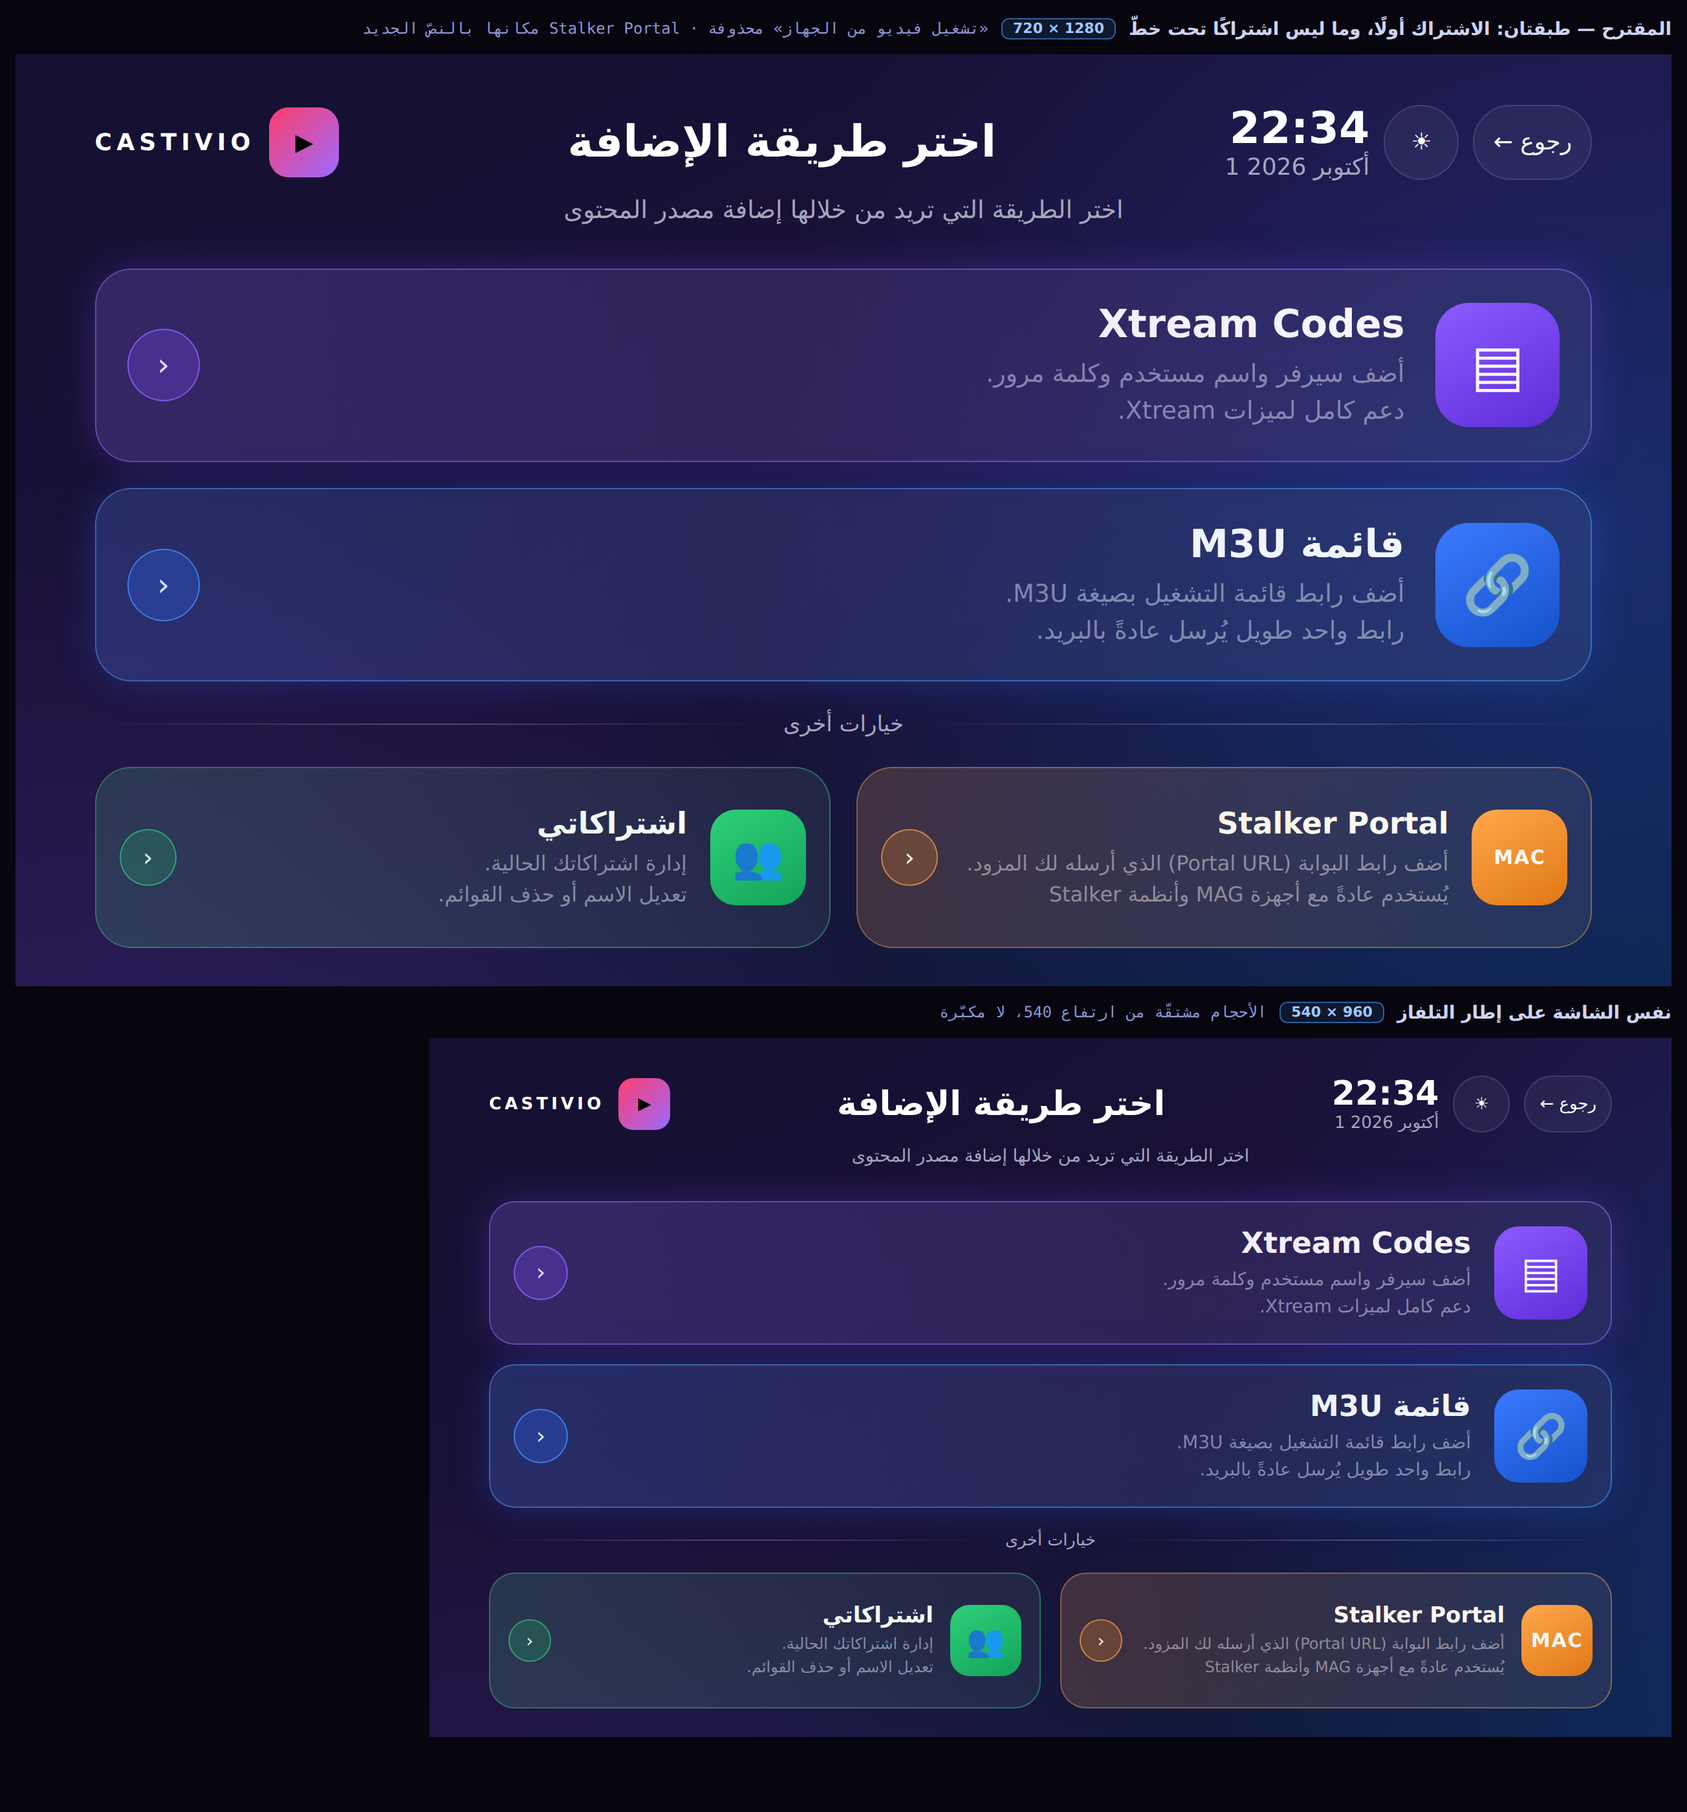
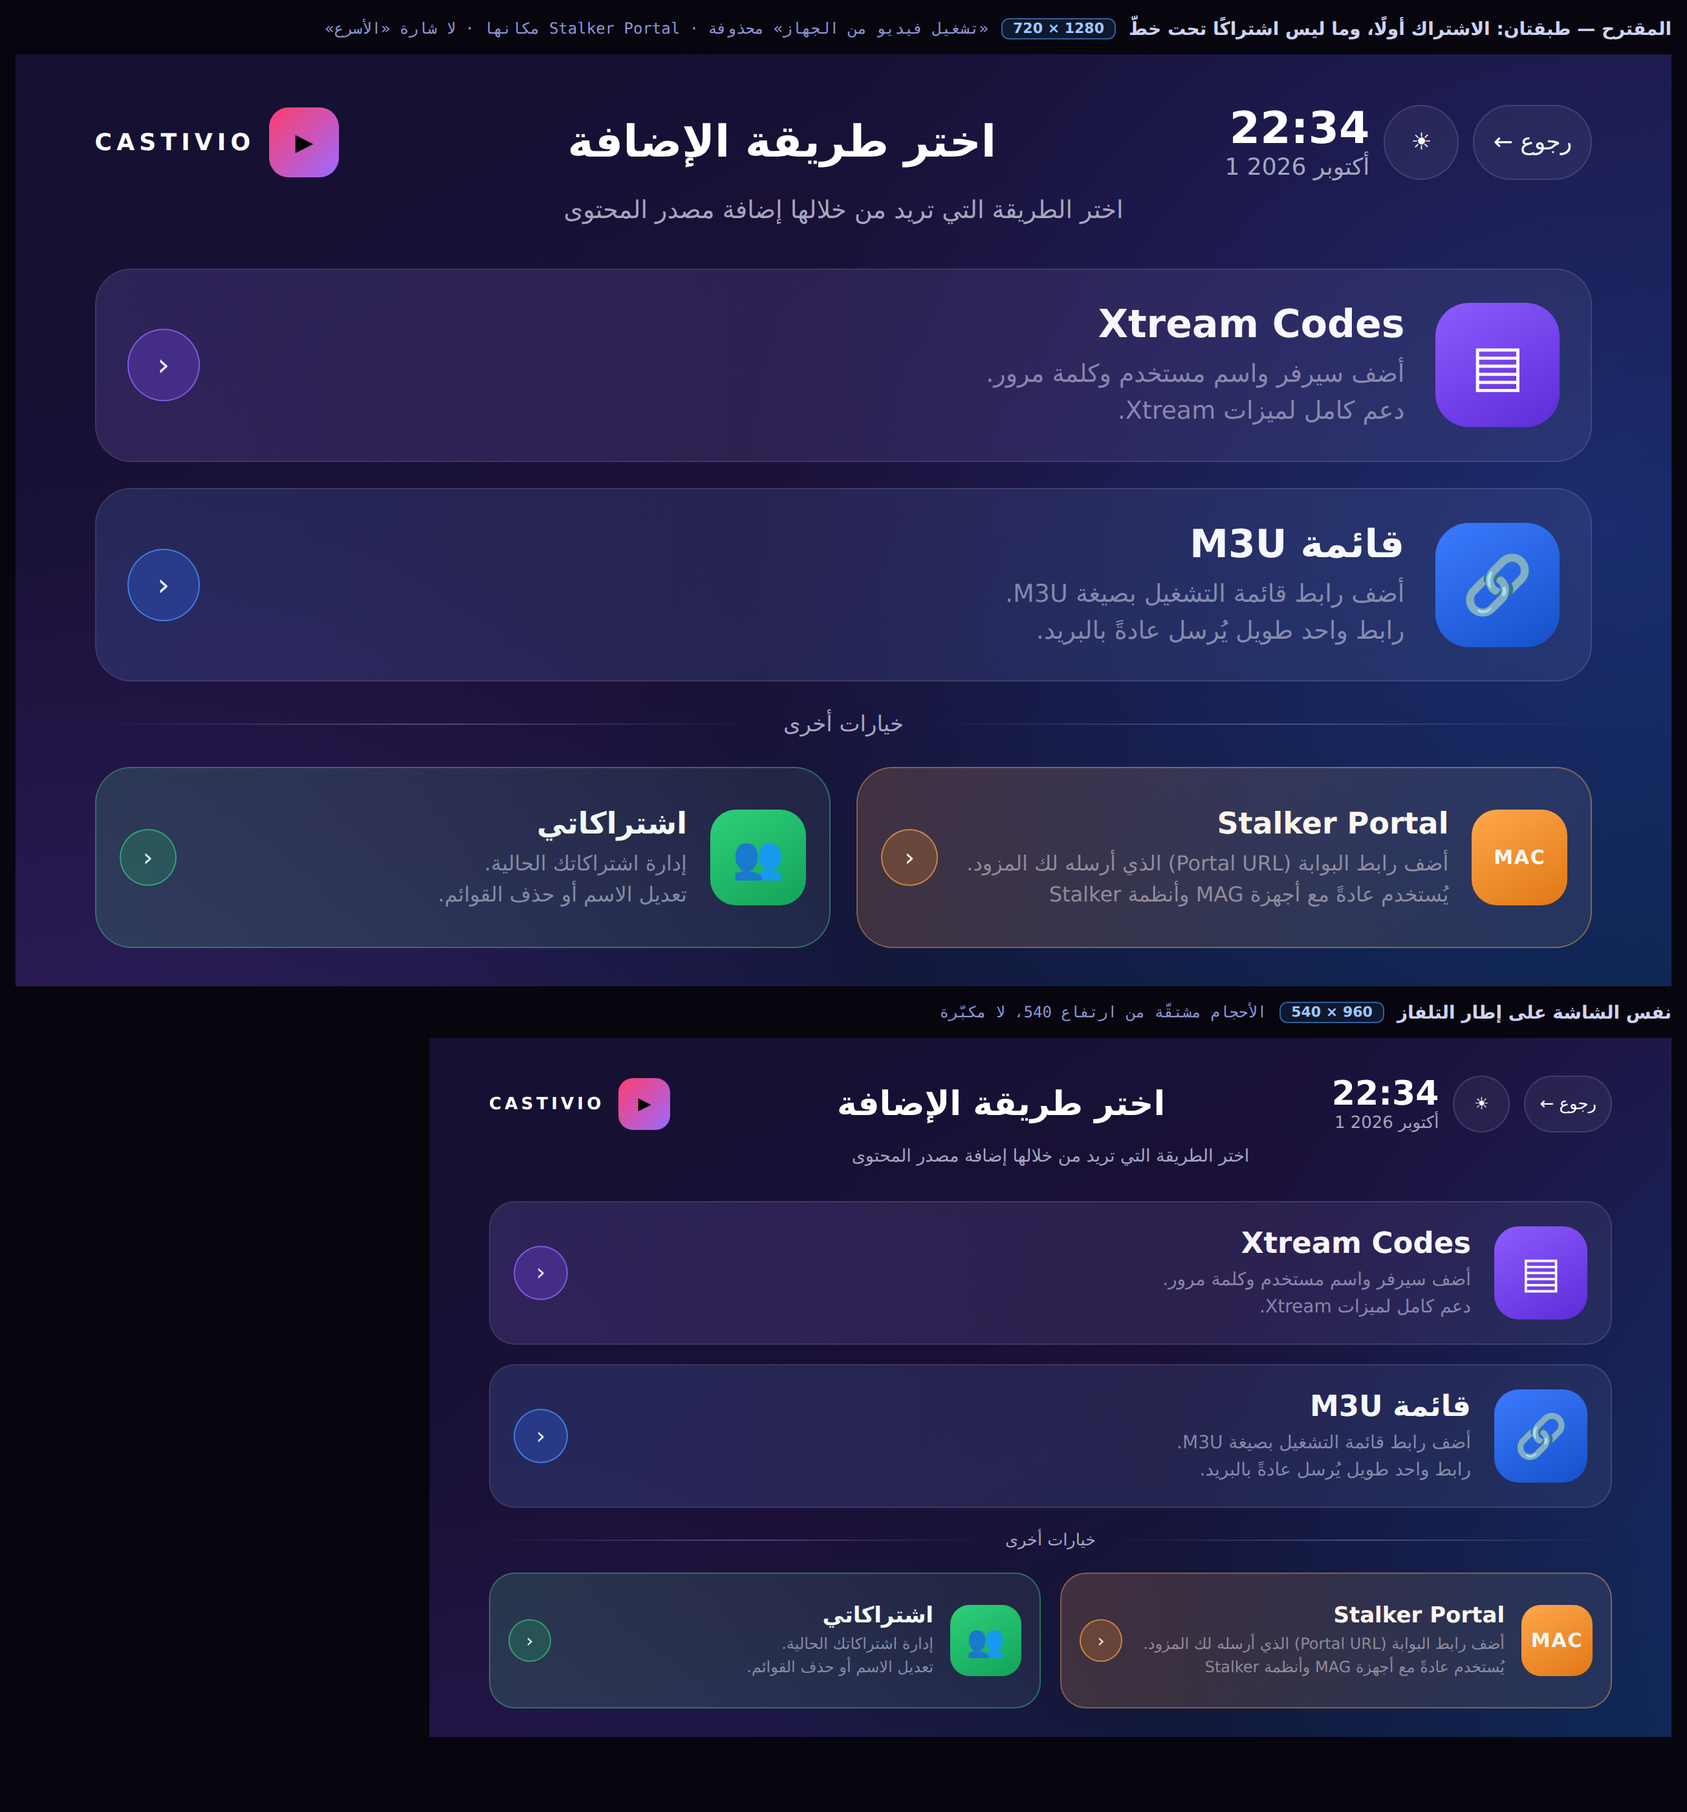
feat(activation): the source choice makes no recommendation
The reference this screen was redrawn from carries no "fastest" badge, so it
does not have one. Removed rather than hidden: the badge, the string behind it,
the featured fill, the violet edge and the glow that marked the suggested card,
and the `recommended` parameter that switched all of them.

With the two ways a subscription arrives now making up the whole of the first
tier, being first *is* the recommendation. A label on one of them was a second
opinion the layout had already given, and the one it pointed at — the playlist —
is not faster than the other in any sense a user of this screen can act on.

It also leaves one lit state on the screen instead of two. The suggested card's
violet edge and the azure focus ring had to be told apart from across a room,
which is a burden worth carrying only while a recommendation is being made. Now
the ring means exactly one thing: here is the remote.

The card's name no longer shares a row with anything, so the row goes with the
badge and the name is placed directly — one child in a `Row` is a `Row` nobody
removed when its second child left.

design/mockups/source-choice-tiered is redrawn to match: same two tiers, no
badge, and the two leading cards at rest drawn the same way as each other.

Claude-Session: https://claude.ai/code/session_011AJmBREqNiH8exQNKLcMCr

Changed region(s): [[0.3106, 0.7146, 0.9317, 0.7768], [0.0621, 0.2486, 0.6212, 0.2796]]

diff --git a/feature/activation/src/main/java/com/castivio/feature/activation/SourceChoiceScreen.kt b/feature/activation/src/main/java/com/castivio/feature/activation/SourceChoiceScreen.kt
@@ -1,8 +1,6 @@
 package com.castivio.feature.activation
 
-import androidx.compose.foundation.BorderStroke
 import androidx.compose.foundation.background
-import androidx.compose.foundation.border
 import androidx.compose.foundation.layout.Arrangement
 import androidx.compose.foundation.layout.Box
 import androidx.compose.foundation.layout.BoxWithConstraints
@@ -18,7 +16,6 @@ import androidx.compose.foundation.layout.size
 import androidx.compose.foundation.shape.RoundedCornerShape
 import androidx.compose.material.icons.Icons
 import androidx.compose.material.icons.automirrored.rounded.KeyboardArrowRight
-import androidx.compose.material.icons.rounded.Bolt
 import androidx.compose.material.icons.rounded.Dns
 import androidx.compose.material.icons.rounded.Group
 import androidx.compose.material.icons.rounded.SettingsInputAntenna
@@ -31,7 +28,6 @@ import androidx.compose.ui.Modifier
 import androidx.compose.ui.draw.clip
 import androidx.compose.ui.graphics.Brush
 import androidx.compose.ui.graphics.Color
-import androidx.compose.ui.graphics.SolidColor
 import androidx.compose.ui.graphics.vector.ImageVector
 import androidx.compose.ui.platform.testTag
 import androidx.compose.ui.res.stringResource
@@ -54,7 +50,6 @@ import com.castivio.core.design.components.castivioDescriptionColor
 import com.castivio.core.design.theme.CastivioMetrics
 import com.castivio.core.design.theme.CastivioTheme
 import com.castivio.core.design.theme.CastivioType
-import com.castivio.core.design.theme.Palette
 import com.castivio.core.design.theme.boundedFraction
 import com.castivio.core.design.theme.castivioMetrics
 import com.castivio.core.design.theme.castivioStage
@@ -253,13 +248,13 @@ internal fun SourceMetrics.cardHeight(frame: Dp): Dp = leadHeight(frame) * MINOR
  * other is two brands, and a header that reassembles itself is the kind of fault
  * nobody can point at and everybody feels.
  *
- * ## Recommended and focused are two pictures
+ * ## One lit card at a time, and it is the focused one
  *
- * The suggested card carries a violet edge and a glow; focus carries the azure ring
- * every focusable thing in this app carries. They must not be the same picture: a
- * television has to say where the remote is, and a D-pad whose position looks like a
- * recommendation is a D-pad the viewer has lost. [InteractiveGlassCard] takes the rest
- * colour and lets focus override it, so the ring keeps meaning exactly one thing.
+ * There used to be a second lit state: the suggested card carried a violet edge and a
+ * glow, beside the azure ring that focus carries. The two had to be told apart from
+ * across a room, which is a burden a screen only has to carry if it is making a
+ * recommendation — and this one no longer is. The cards are all drawn at rest the same
+ * way, so the ring means exactly one thing: here is the remote.
  *
  * ## Direction
  *
@@ -333,8 +328,10 @@ internal fun SourceChoiceScreen(
  *
  * So Xtream and the playlist take the full width, one above the other, and the two
  * that are not a new subscription sit under a rule that names them as what they are.
- * The hierarchy is carried by size and by the rule, not by colour or by a badge —
- * those still mean what they meant.
+ * The hierarchy is carried by size and by the rule, and by nothing else. There is no
+ * badge and no featured card: a "fastest" label on one of the two leading cards was a
+ * recommendation nobody had asked this screen to make, and with the two of them now
+ * the whole of the first tier, being first is the recommendation.
  *
  * ## The heights are weights, not numbers
  *
@@ -359,7 +356,7 @@ private fun SourceTiers(
             title = stringResource(R.string.source_xtream_title),
             detail = stringResource(R.string.source_xtream_detail),
             hint = stringResource(R.string.source_xtream_hint),
-            recommended = false, onClick = onXtream, tag = ActivationTags.SOURCE_XTREAM,
+            onClick = onXtream, tag = ActivationTags.SOURCE_XTREAM,
             modifier = Modifier.weight(1f).fillMaxWidth(),
         )
         SourceCard(
@@ -367,7 +364,7 @@ private fun SourceTiers(
             title = stringResource(R.string.source_m3u_title),
             detail = stringResource(R.string.source_m3u_detail),
             hint = stringResource(R.string.source_m3u_hint),
-            recommended = true, onClick = onPlaylist, tag = ActivationTags.SOURCE_M3U,
+            onClick = onPlaylist, tag = ActivationTags.SOURCE_M3U,
             modifier = Modifier.weight(1f).fillMaxWidth(),
         )
 
@@ -382,7 +379,7 @@ private fun SourceTiers(
                 title = stringResource(R.string.source_portal_title),
                 detail = stringResource(R.string.source_portal_detail),
                 hint = stringResource(R.string.source_portal_hint),
-                recommended = false, onClick = onPortal, tag = ActivationTags.SOURCE_PORTAL,
+                onClick = onPortal, tag = ActivationTags.SOURCE_PORTAL,
                 modifier = Modifier.weight(1f).fillMaxHeight(),
             )
             SourceCard(
@@ -390,7 +387,7 @@ private fun SourceTiers(
                 title = stringResource(R.string.source_users_title),
                 detail = stringResource(R.string.source_users_detail),
                 hint = stringResource(R.string.source_users_hint),
-                recommended = false, onClick = onSavedSources, tag = ActivationTags.SOURCE_USERS,
+                onClick = onSavedSources, tag = ActivationTags.SOURCE_USERS,
                 modifier = Modifier.weight(1f).fillMaxHeight(),
             )
         }
@@ -453,13 +450,11 @@ private fun SourceCard(
     title: String,
     detail: String,
     hint: String,
-    recommended: Boolean,
     onClick: () -> Unit,
     tag: String,
     modifier: Modifier = Modifier,
 ) {
     val colors = CastivioTheme.colors
-    val badge = stringResource(R.string.source_badge_fastest)
 
     InteractiveGlassCard(
         onClick = onClick,
@@ -469,13 +464,10 @@ private fun SourceCard(
             // a single item. Without it the disc, the name and the two sentences are
             // four focusable-looking fragments of one decision.
             .semantics(mergeDescendants = true) {
-                contentDescription = if (recommended) "$title. $badge. $detail $hint"
-                else "$title. $detail $hint"
+                contentDescription = "$title. $detail $hint"
             },
         shape = RoundedCornerShape(m.radius),
-        fill = if (recommended) SolidColor(colors.featuredFill) else colors.glassFillBrush,
-        restBorder = if (recommended) RECOMMENDED_EDGE else null,
-        restGlow = if (recommended) RECOMMENDED_GLOW else null,
+        fill = colors.glassFillBrush,
     ) {
         Row(
             Modifier.fillMaxSize().padding(m.cardPad),
@@ -484,31 +476,24 @@ private fun SourceCard(
         ) {
             Disc(m, hue, icon)
             Column(Modifier.weight(1f), verticalArrangement = Arrangement.spacedBy(m.cardPad * TEXT_GAP)) {
-                Row(
-                    horizontalArrangement = Arrangement.spacedBy(m.cardPad * BADGE_GAP),
-                    verticalAlignment = Alignment.CenterVertically,
-                ) {
-                    // Fitted, not clipped. A card's name is one line by design -- it
-                    // sits beside a badge and above a description, and wrapping it
-                    // would change the card's whole shape in the languages that need
-                    // two lines. So it *shrinks* to the width it has, down to an 11sp
-                    // floor, which is the other half of the rule: text may reflow or
-                    // scale, and may never be cut. `maxLines = 1` with an ellipsis was
-                    // the third thing, and it is the one that is not allowed -- a
-                    // reader sees "Xtream Cod…" and cannot tell it is the same product.
-                    CastivioFittedText(
-                        text = title,
-                        style = CastivioType.titleMedium.copy(
-                            fontSize = m.fsCard.value.sp,
-                            lineHeight = (m.fsCard.value * TITLE_LEADING).sp,
-                            fontWeight = FontWeight.Bold,
-                            letterSpacing = 0.sp,
-                        ),
-                        color = colors.onBackgroundStrong,
-                        modifier = Modifier.weight(1f, fill = false),
-                    )
-                    if (recommended) Badge(m, badge)
-                }
+                // Fitted, not clipped. A card's name is one line by design -- it sits
+                // above a description, and wrapping it would change the card's whole
+                // shape in the languages that need two lines. So it *shrinks* to the
+                // width it has, down to an 11sp floor, which is the other half of the
+                // rule: text may reflow or scale, and may never be cut. `maxLines = 1`
+                // with an ellipsis was the third thing, and it is the one that is not
+                // allowed -- a reader sees "Xtream Cod…" and cannot tell it is the same
+                // product.
+                CastivioFittedText(
+                    text = title,
+                    style = CastivioType.titleMedium.copy(
+                        fontSize = m.fsCard.value.sp,
+                        lineHeight = (m.fsCard.value * TITLE_LEADING).sp,
+                        fontWeight = FontWeight.Bold,
+                        letterSpacing = 0.sp,
+                    ),
+                    color = colors.onBackgroundStrong,
+                )
                 Text(
                     text = buildAnnotatedString {
                         append(detail)
@@ -531,41 +516,6 @@ private fun SourceCard(
     }
 }
 
-/**
- * The recommendation, as a badge.
- *
- * A label rather than a ring, so it cannot be read as focus. It keeps its intrinsic
- * width and the name beside it yields, which is the header's rule one level down: a
- * badge is a fixed fact and a name is the thing here whose full size is not
- * load-bearing.
- */
-@Composable
-private fun Badge(m: SourceMetrics, text: String) {
-    val shape = RoundedCornerShape(percent = 50)
-    Row(
-        Modifier
-            .clip(shape)
-            .background(Brush.verticalGradient(listOf(BADGE_TOP, BADGE_FOOT)))
-            .border(BorderStroke(1.dp, BADGE_EDGE), shape)
-            .padding(horizontal = m.fsBadge * BADGE_PAD, vertical = m.fsBadge * BADGE_PAD_Y),
-        horizontalArrangement = Arrangement.spacedBy(m.fsBadge * BADGE_ICON_GAP),
-        verticalAlignment = Alignment.CenterVertically,
-    ) {
-        Icon(
-            Icons.Rounded.Bolt,
-            contentDescription = null,
-            tint = Palette.Violet60,
-            modifier = Modifier.size(m.fsBadge * ICON_RATIO),
-        )
-        Text(
-            text = text,
-            style = castivioChipStyle(m.fsBadge).copy(fontWeight = FontWeight.Bold),
-            color = Palette.White,
-            maxLines = 1,
-        )
-    }
-}
-
 /* --------------------------------------------------------------------- ratios */
 
 
@@ -575,25 +525,6 @@ private const val TITLE_LEADING = 1.35f
 private const val ICON_RATIO = 1.25f
 
 private const val TEXT_GAP = 0.5f
-private const val BADGE_GAP = 0.9f
-private const val BADGE_PAD = 0.62f
-private const val BADGE_PAD_Y = 0.17f
-private const val BADGE_ICON_GAP = 0.34f
 
 
-/**
- * The suggested card's edge and the light around it.
- *
- * Violet, and deliberately not the azure the focus ring uses: the two say different
- * things and a viewer has to be able to tell which is which from across a room.
- *
- * `internal` because the local-media chooser marks its own default the same way, and
- * "the same way" has to mean the same two values. A second pair copied across is a
- * pair that agrees until one of them is adjusted.
- */
-internal val RECOMMENDED_EDGE = Palette.Violet60.copy(alpha = 0.85f)
-internal val RECOMMENDED_GLOW = Palette.Violet50.copy(alpha = 0.42f)
 
-private val BADGE_TOP = Palette.Violet50.copy(alpha = 0.42f)
-private val BADGE_FOOT = Palette.Violet40.copy(alpha = 0.30f)
-private val BADGE_EDGE = Palette.Violet60.copy(alpha = 0.46f)

diff --git a/design/mockups/source-choice-tiered.html b/design/mockups/source-choice-tiered.html
@@ -64,13 +64,13 @@ body{background:#07060f;padding:12px;display:flex;flex-direction:column;gap:10px
   align-items:center;justify-content:center;font-size:24px;color:#fff}
 .txt{flex:1 1 auto;min-width:0}
 
-.vCard{border-color:rgba(155,107,255,.55);box-shadow:0 0 30px rgba(124,77,255,.26)}
-.vCard .wash{background:linear-gradient(90deg,rgba(124,77,255,.20),rgba(124,77,255,.04))}
+/* at rest every card is the same glass: no featured card, no badge. The only lit
+   state on this screen is focus, which is the azure ring. */
+.vCard .wash{background:linear-gradient(90deg,rgba(124,77,255,.13),rgba(124,77,255,.02))}
 .vTile{background:linear-gradient(150deg,#8E5BFF,#5B2BD6)}
 .vGo{border:1px solid rgba(155,107,255,.75);background:rgba(124,77,255,.28)}
 
-.aCard{border-color:rgba(76,155,255,.55);box-shadow:0 0 30px rgba(46,107,255,.26)}
-.aCard .wash{background:linear-gradient(90deg,rgba(46,107,255,.20),rgba(46,107,255,.04))}
+.aCard .wash{background:linear-gradient(90deg,rgba(46,107,255,.13),rgba(46,107,255,.02))}
 .aTile{background:linear-gradient(150deg,#3C7BFF,#1450C8)}
 .aGo{border:1px solid rgba(76,155,255,.75);background:rgba(46,107,255,.28)}
 
@@ -126,7 +126,7 @@ body{background:#07060f;padding:12px;display:flex;flex-direction:column;gap:10px
 
 <div class="cap">المقترح — طبقتان: الاشتراك أولًا، وما ليس اشتراكًا تحت خطّ
   <span class="px">1280 × 720</span>
-  <span class="n">«تشغيل فيديو من الجهاز» محذوفة · Stalker Portal مكانها بالنصّ الجديد</span></div>
+  <span class="n">«تشغيل فيديو من الجهاز» محذوفة · Stalker Portal مكانها · لا شارة «الأسرع»</span></div>
 
 <div class="shot">
   <div class="glow warm"></div><div class="glow cool"></div>
